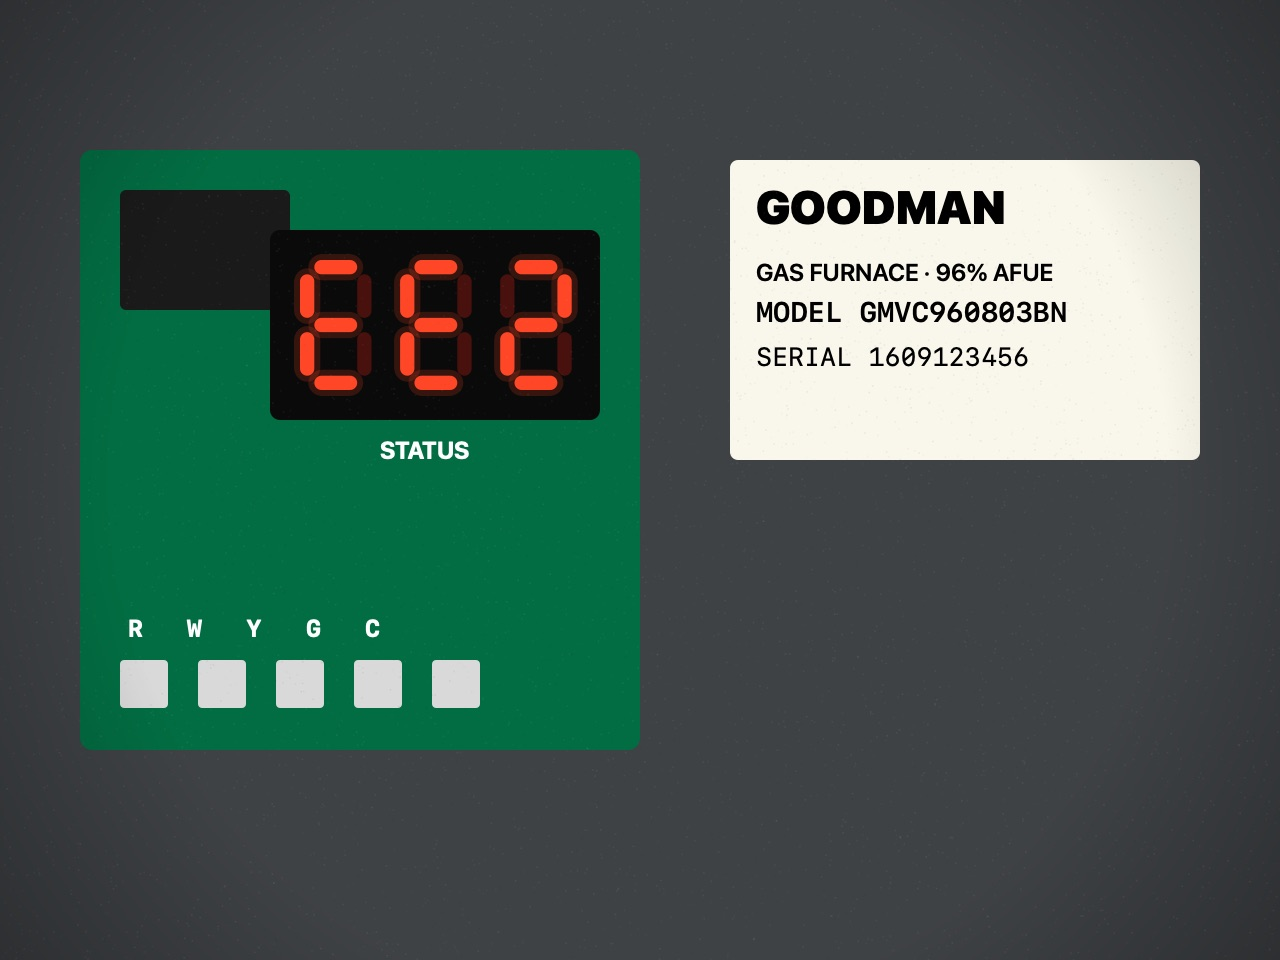
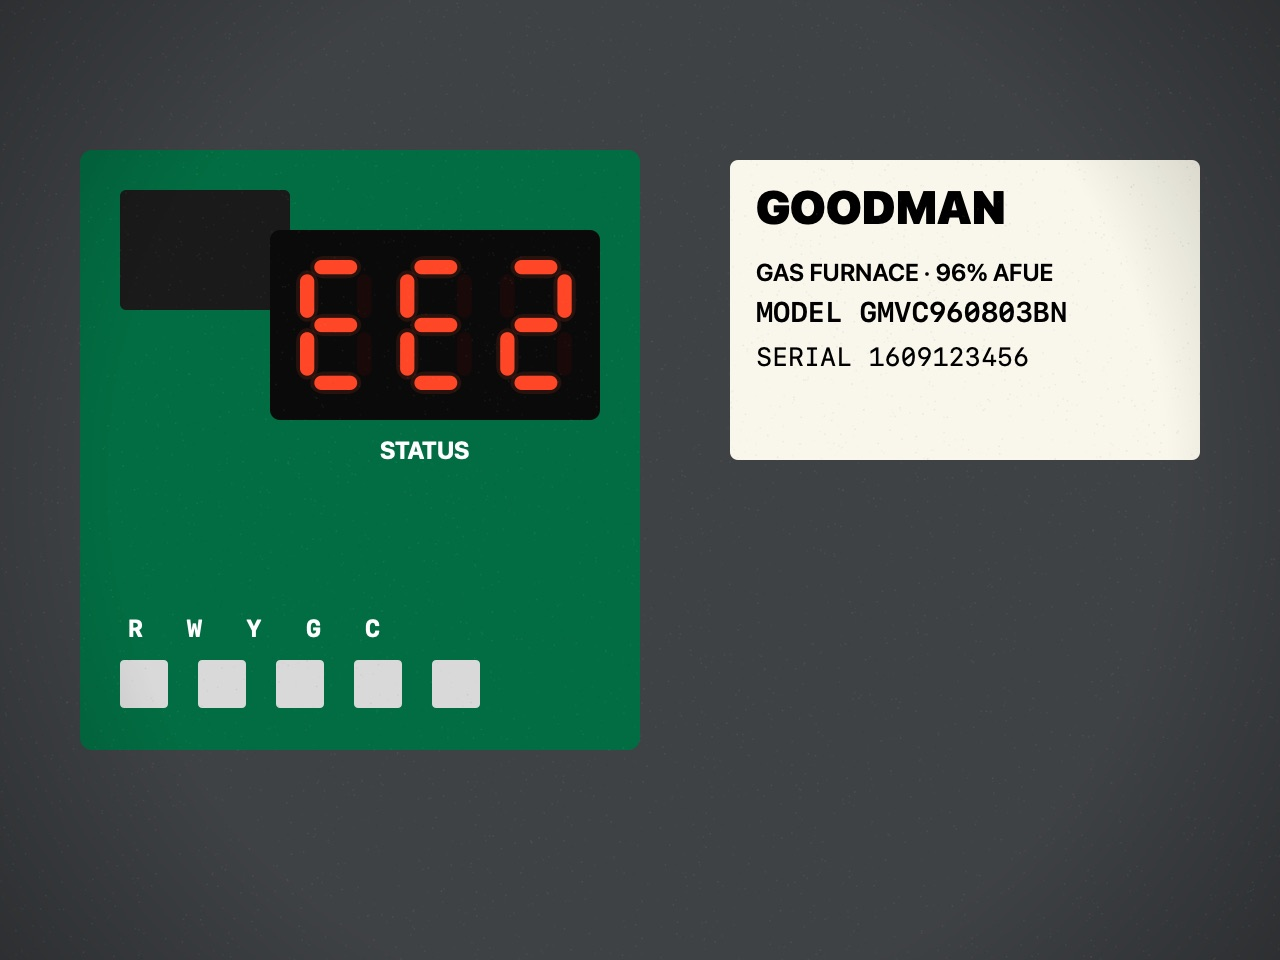
fix(web): samples Gemini Nano can read; triage prompt v2
Unlit segments drawn in dim red made Nano read EE2 as 888. Near-black unlit
segments, a prompt rule to read only lit segments, versioned sample URLs.

Changed region(s): [[0.2188, 0.2812, 0.4688, 0.4062]]

diff --git a/web/src/triage/samples.ts b/web/src/triage/samples.ts
@@ -12,28 +12,28 @@ export const SAMPLES: TriageSample[] = [
   {
     id: 'goodman-ee2',
     label: 'Goodman display',
-    src: '/samples/goodman-ee2.jpg',
+    src: '/samples/goodman-ee2.jpg?v=2',
     message: "No heat since this morning. The little screen on the furnace says something and the fan outside isn't running.",
     jobId: 'job-1001',
   },
   {
     id: 'carrier-led',
     label: 'Carrier status light',
-    src: '/samples/carrier-led.jpg',
+    src: '/samples/carrier-led.jpg?v=2',
     message: 'The furnace keeps turning on and off. The red light blinks once, pauses, then blinks 3 times, over and over.',
     jobId: 'job-1002',
   },
   {
     id: 'rheem-45',
     label: 'Rheem display',
-    src: '/samples/rheem-45.jpg',
+    src: '/samples/rheem-45.jpg?v=2',
     message: 'Heat comes on then shuts off after a minute. The display shows a number.',
     jobId: 'job-1003',
   },
   {
     id: 'nameplate-only',
     label: 'Nameplate only',
-    src: '/samples/nameplate-only.jpg',
+    src: '/samples/nameplate-only.jpg?v=2',
     message: "Upstairs is cold. Here's the sticker on the furnace, I couldn't find any code.",
     jobId: 'job-1005',
   },

diff --git a/scripts/make-triage-samples.swift b/scripts/make-triage-samples.swift
@@ -87,7 +87,7 @@ func sevenSegment(_ s: String, at origin: CGPoint, height h: CGFloat, on: NSColo
         ]
         for (seg, rect) in rects {
             if lit.contains(seg) {
-                fill(rect.insetBy(dx: -6, dy: -6), on.withAlphaComponent(0.18), radius: t)   // glow
+                fill(rect.insetBy(dx: -4, dy: -4), on.withAlphaComponent(0.12), radius: t)   // glow
                 fill(rect, on, radius: t / 2)
             } else {
                 fill(rect, off, radius: t / 2)
@@ -120,7 +120,8 @@ func save(_ rep: NSBitmapImageRep, _ name: String) throws {
 
 let cabinet = NSColor(calibratedRed: 0.19, green: 0.20, blue: 0.21, alpha: 1)
 let red = NSColor(calibratedRed: 1, green: 0.18, blue: 0.12, alpha: 1)
-let offSeg = NSColor(calibratedRed: 0.22, green: 0.05, blue: 0.05, alpha: 1)
+// Unlit segments almost black: a faint red "8" behind every digit made Gemini Nano read EE2 as 888.
+let offSeg = NSColor(calibratedRed: 0.075, green: 0.04, blue: 0.04, alpha: 1)
 
 // 1. Goodman, EE2 on the board display
 try save(render(width: 1280, height: 960) { r in

diff --git a/shared/prompts/triage.md b/shared/prompts/triage.md
@@ -1,6 +1,6 @@
 ---
 name: triage
-version: 1
+version: 2
 platforms: [web]
 route: route_triage
 max_tokens: 2500
@@ -14,6 +14,9 @@ a sticker, or a nameplate). Identify what is visible: brand, model number, any e
 flash pattern. Then give the most likely fault and the parts the technician should bring.
 Be concise. Write "unknown" for anything you cannot see or infer with reasonable confidence.
 Never guess a model number that is not visible in the photo.
+Error codes: copy the code exactly as shown (for example EE2 or 45). On seven-segment displays,
+read only the brightly lit segments; dim or unlit segments are not part of the code. For a
+blinking status LED, use the blink pattern the customer describes.
 
 ## User
 
